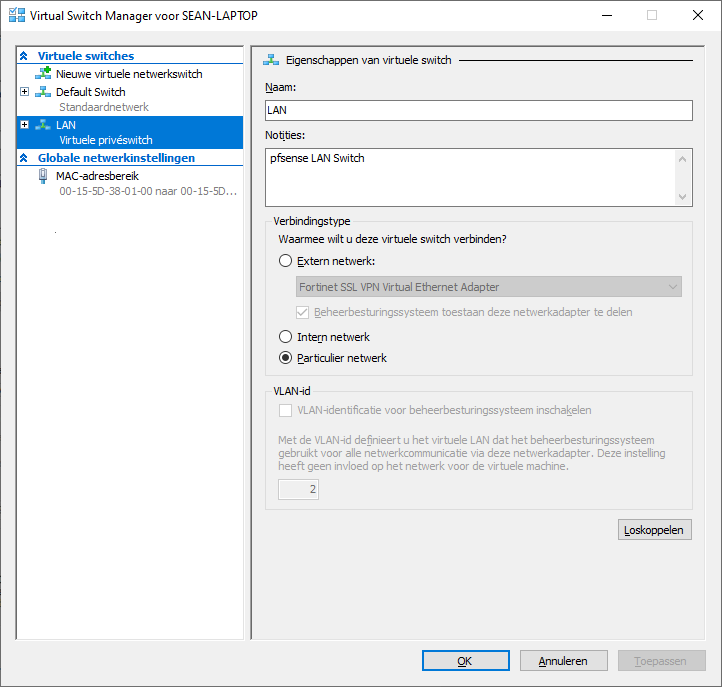
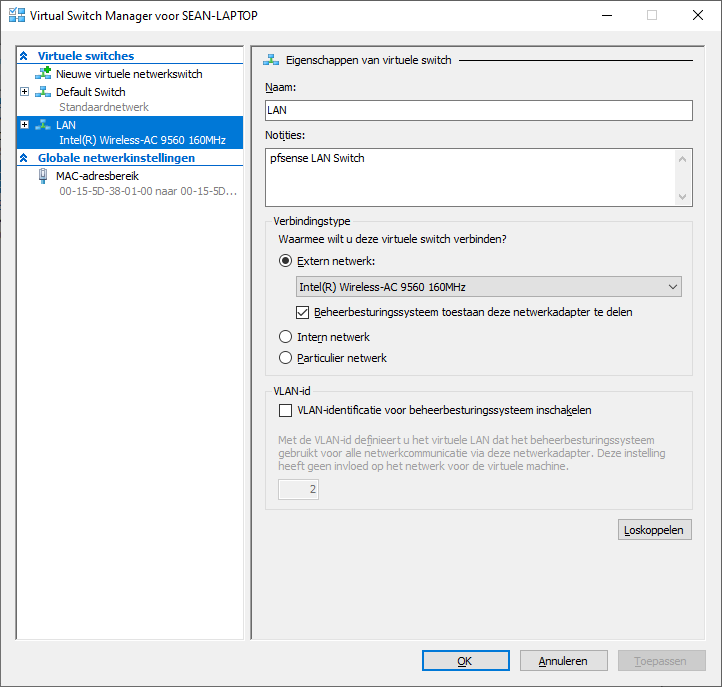
[zulu2] Updating documentation Hyper-V Production

Changed region(s): [[0.3961, 0.3974, 0.8837, 0.4585], [0.3961, 0.5808, 0.8227, 0.6114], [0.0914, 0.1834, 0.3047, 0.214]]

diff --git a/Servers/Zulu2/Documentatie Installatie.md b/Servers/Zulu2/Documentatie Installatie.md
@@ -8,7 +8,7 @@
    2. [Aanmaken Virtuele Machine](#Machine)  
    3. [Configuratie Virtuele Machine](#CMachine)  
    4. [Installatie pfsense](#InstallatieP)
-   5. [Wijzigen Hyper-V LAN Adapter Host (Optioneel)](#Adapter)
+   5. [Wijzigen Hyper-V LAN Adapter Host ](#Adapter)
 5. [Initiële Configuratie](#Config)  
 6. [Webconfig](#Webconfig)
 7. [Bronnen](#Bronnen)  
@@ -56,15 +56,18 @@ Deze handleiding veronderstelt dat Hyper-V ingeschakelt is op het hostsysteem. I
 
  1. Start het Hyper-V beheerscherm op.
  2. Navigeer naar **Actie > Virtual Switch Manager...**
- 3. Navigeer naar **Nieuwe virtuele netwerkswitch**, kies als type **Extern**, en bevestig met **Virtuele switch maken**. Indien je de Hyper-V omgeving wil testen via je lokale host kies dan als type **Intern** zoals in de afbeelding hieronder:
+ 3. Navigeer naar **Nieuwe virtuele netwerkswitch**, kies als type **Extern**, en bevestig met **Virtuele switch maken**.
  ![img1](img/Hyper-V/image1.png)
- 4. Navigeer naar deze nieuwe toegevoegde switch, verander de naam naar `LAN`, geef een beschrijving in, geef de correcte netwerkadapter voor het LAN-netwerk in indien je voor een **Extern** type hebt gekozen, en pas de wijzigingen toe.
+ 4. Navigeer naar deze nieuwe toegevoegde switch, verander de naam naar `LAN`, geef een beschrijving in, geef de correcte netwerkadapter voor het LAN-netwerk in, en pas de wijzigingen toe.
  
  ![img2](img/Hyper-V/image2.png)
  
- 5. Voeg opnieuw een nieuwe netwerkswitch toe zoals in **3.**, kies deze keer als type **Extern**.
+ 5. Voeg opnieuw een nieuwe netwerkswitch toe zoals in **3.**, kies opnieuw als type **Extern**.
  6. Navigeer naar deze nieuwe toegevoegde switch, verander de naam naar `WAN`, geef een beschrijving in, geef de correcte netwerkadapter voor het WAN-netwerk in, en pas de wijzigingen toe.
  ![img3](img/Hyper-V/image3.png)
+ 7. Voeg opnieuw een nieuwe netwerkswitch toe zoals in **3.**, kies deze keer als type **Intern**.
+ 8. Navigeer naar deze nieuwe toegevoegde switch, verander de naam naar `Host`, geef een beschrijving in, en pas de wijzigingen toe.
+ ![img26](img/Hyper-V/image26.png)
  
 ### 4.2 Aanmaken Virtuele Machine <a name="Machine"></a>  
 
@@ -90,9 +93,10 @@ Deze handleiding veronderstelt dat Hyper-V ingeschakelt is op het hostsysteem. I
  ![img10](img/Hyper-V/image10.png)
  3. Navigeer naar de nieuwe netwerkadapter, selecteer als virtuele switch **LAN**, en pas de wijzigingen toe.
  ![img11](img/Hyper-V/image11.png)
- 4. Navigeer naar **Firmware** en rangschik de opstartvolgorde als volgt: *Hardeschijfstation > Dvd-station > WAN > LAN*. Pas de wijzigingen toe.
+ 4. Herhaal stappen **2.** en **3.** met virtuele switch **Host**.
+ 5. Navigeer naar **Firmware** en rangschik de opstartvolgorde als volgt: *Hardeschijfstation > Dvd-station > WAN > LAN*. Pas de wijzigingen toe.
  ![img23](img/Hyper-V/image23.png)
- 5. Navigeer naar **Beveiliging**, schakel **Secure Boot** uit, en pas de wijzigingen toe.
+ 6. Navigeer naar **Beveiliging**, schakel **Secure Boot** uit, en pas de wijzigingen toe.
  ![img24](img/Hyper-V/image24.png)
  
 ### 4.5 Installatie pfsense <a name="InstallatieP"></a>  
@@ -124,18 +128,42 @@ Deze handleiding veronderstelt dat Hyper-V ingeschakelt is op het hostsysteem. I
  
  ![img22](img/Hyper-V/image22.png)
  
-### 4.6 Wijzigen Hyper-V LAN Adapter Host (Optioneel) <a name="Adapter">
+**Opmerking:** Indien `OPT1` geen IP-adres heeft, moet je deze manueel instellen. Dit doe je als volgt:
 
-Deze stap is enkel nodig indien je als LAN-switch type **Intern** gekozen hebt voor lokaal testen, zodat je de *pfsense Web GUI* via het LAN-netwerk kan bereiken vanop de host.
+ 1. Geef optie **1** in om het IP-adres van een interface in te geven, en bevestig met enter.
+ 2. Geef optie **3** in om het IP-adres van interface `OPT1` in te geven.
+ 
+ ![img29](img/Hyper-V/image29.png)
+ 
+ 3. Geef een nieuw IP-adres in, bijvoorbeeld `192.168.3.1`, en bevestig met enter.
+ 4. Geef als subnet bit count 24 in, en bevestig met enter.
+ 
+ ![img30](img/Hyper-V/image30.png)
+ 
+ 5. Geef enter in om geen upstream IP-adres in te geven.
+ 6. Geef enter in om geen IPv6-adres in te stellen.
+ 7. Geef `n` in om DHCP niet te enablen, en bevestig met enter.
+ 8. Geef `n` in om niet te reverten naar HTTP, en bevestig met enter.
+ 
+ ![img31](img/Hyper-V/image31.png)
+ 
+ 9. Geef enter in om de configuratie te bevestigen.
+ 
+ ![img32](img/Hyper-V/image32.png)
+ 
+### 4.6 Wijzigen Hyper-V LAN Adapter Host <a name="Adapter">
+
  1. Navigeer op het hostsysteem naar het tabblad **Netwerkverbinding** van het **Configuratiescherm.** Men kan dit ook vinden via **Alle Instellingen** > **Netwerk en Internet** > **Status** > **Adapteropties wijzigen.**
- 2. Rechtsklik op de **Hyper-V LAN Switch** en kies **Eigenschappen.**
+ ![img27](img/Hyper-V/image27.png)
+ 2. Rechtsklik op de **vEthernet (Host)** en kies **Eigenschappen.**
+ ![img28](img/Hyper-V/image28.png)
  3. Ga op het tabblad **Netwerken** naar de optie **Internet protocol versie 4 (TCP/IPv4)** in de lijst en selecteer **Eigenschappen.**
- 4. Indien nodig selecteer de optie **Het volgend IP-adres gebruiken** om een statisch IP toe te wijzen. Geef als IP-adres een adres in dat in hetzelfde subnet ligt als het LAN IP-adres dat de pfsense VM in de vorige stap heeft weergegeven (in mijn geval 192.168.1.1/24), alsook hetzelfde subnetmasker. De standaardgateway, alsook DNS-serveradressen, mogen worden leegelaten. Bevestig met **Ok** en **Sluiten.**
+ 4. Indien nodig selecteer de optie **Het volgend IP-adres gebruiken** om een statisch IP toe te wijzen. Geef als IP-adres een adres in dat in hetzelfde subnet ligt als het Host IP-adres dat de pfsense VM in de vorige stap heeft weergegeven (in mijn geval 192.168.3.1/24), alsook hetzelfde subnetmasker. De standaardgateway, alsook DNS-serveradressen, mogen worden leegelaten. Bevestig met **Ok** en **Sluiten.**
 <p align="center">
   <img src="img/Hyper-V/image25.png">
 </p>
  
-Je kan nu vanop de host de pfsense Web GUI via het LAN-adres bereiken.
+Je kan nu vanop de host de pfsense Web GUI via het Host-adres bereiken.
 
 ## 5. Initiële Configuratie <a name="Config"></a>  
 Na de installatie zien we dit menu:  
